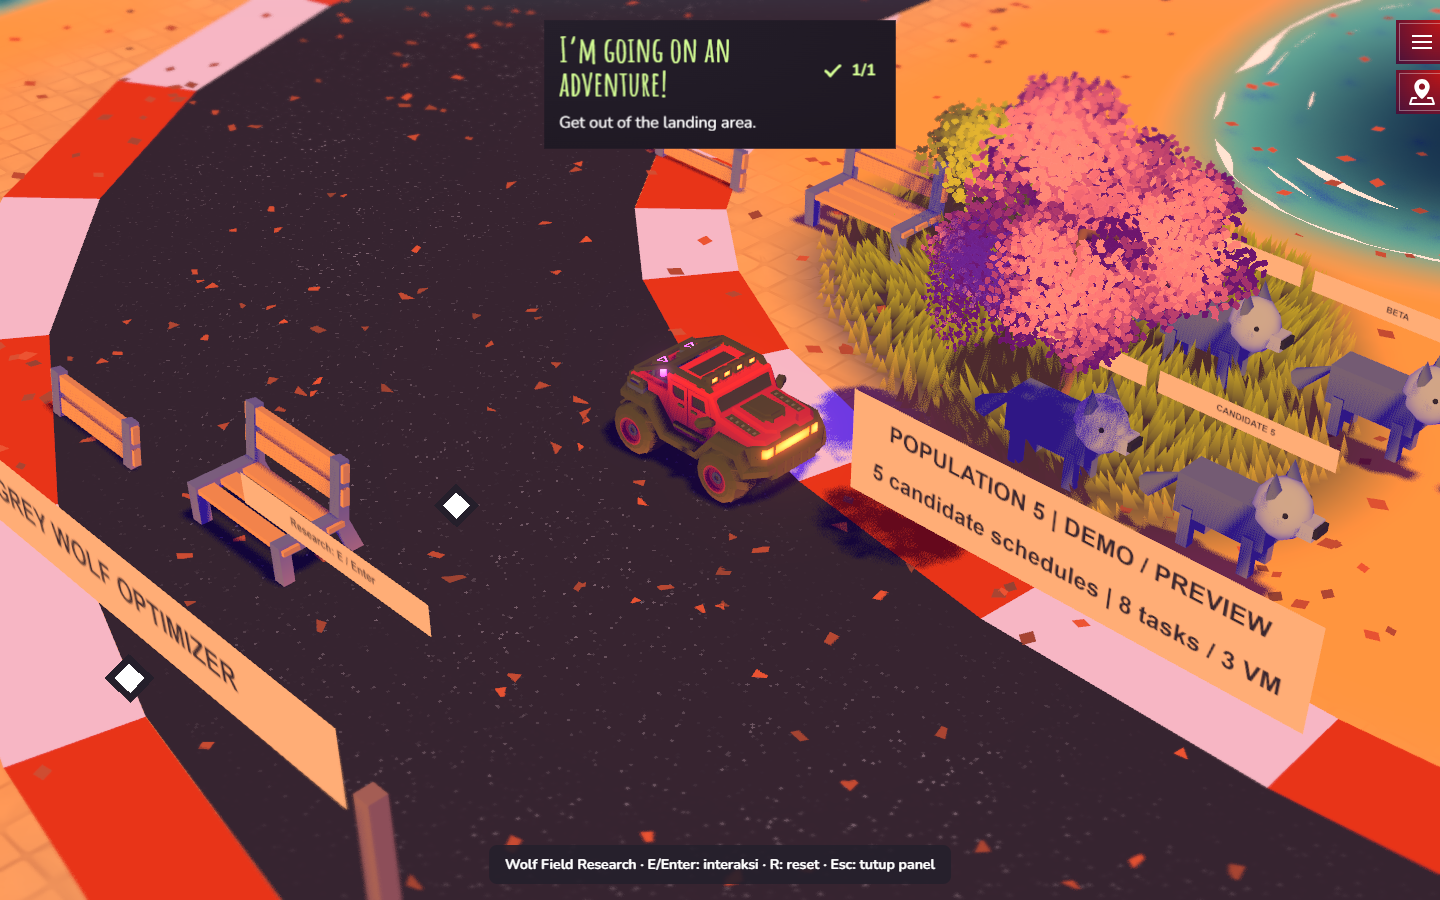
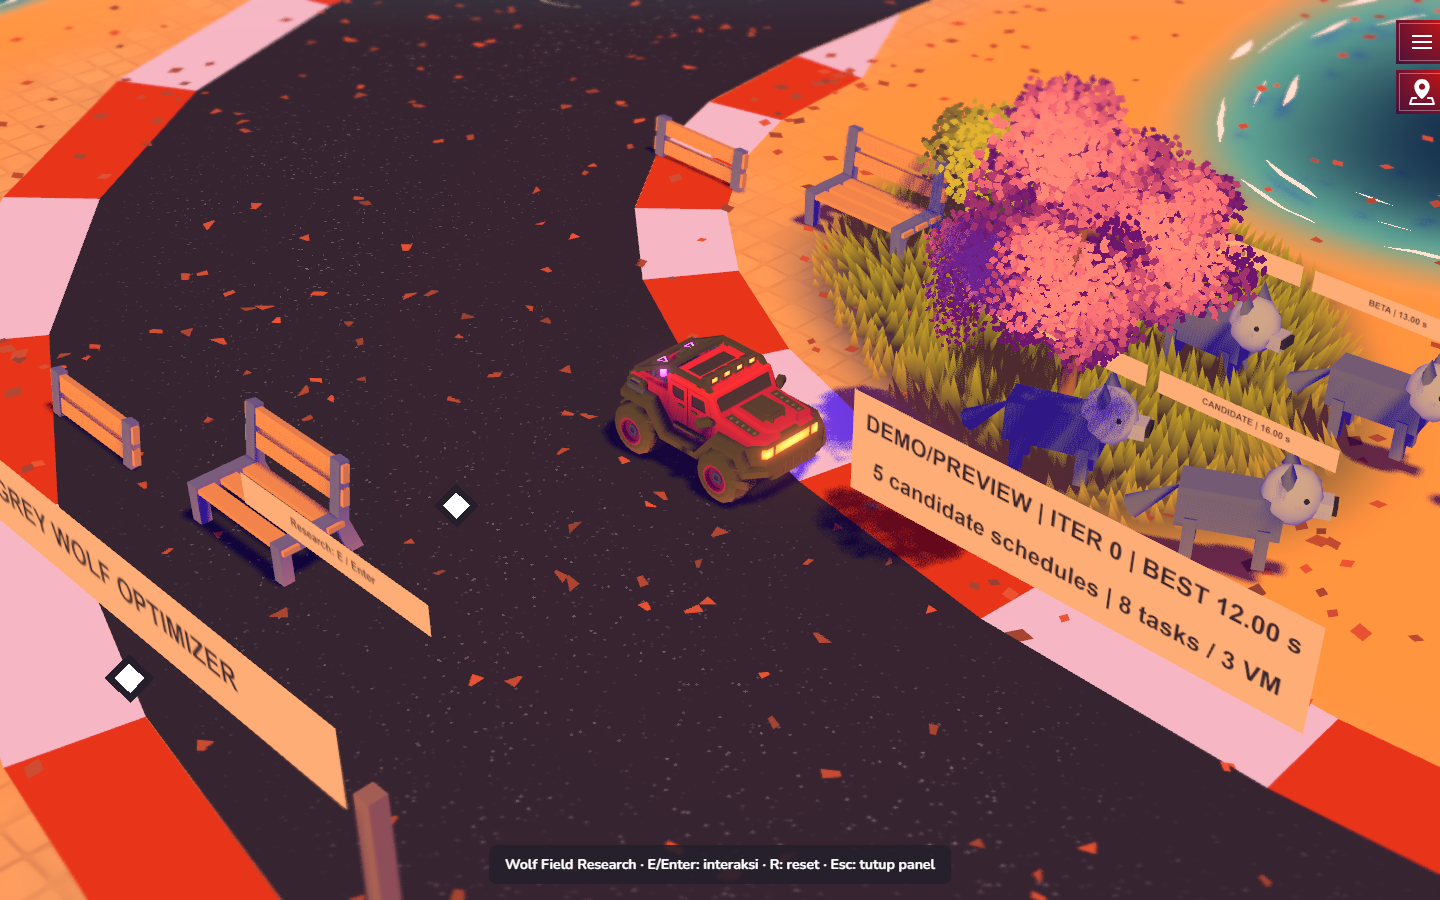
feat(gwo): add validated event adapter and research inspector

diff --git a/sources/CloudOps/gwo/GwoWorld.js b/sources/CloudOps/gwo/GwoWorld.js
@@ -1,3 +1,4 @@
+import {validateState,previewState} from './state.js'
 import * as T from 'three/webgpu'
 import {color,texture} from 'three/tsl'
 import {Area} from '../../Game/World/Areas/Area.js'
@@ -26,12 +27,19 @@ export class GwoWorld extends Area {
   const gate=manager.findReturnCheckpoint({position:[39,50],rotation:0});if(!gate)throw new Error('No safe GWO gate');this.mainGate=gate;manager.createStation({zone:'main',label:'Wolf Field Research',position:[gate.position[0],1.5,gate.position[1]],onInteract:()=>manager.enter('gwo')})
   manager.createStation({zone:'gwo',label:'Kembali ke Main',position:[-65,1.5,75],onInteract:()=>manager.enter('main')})
   manager.createStation({zone:'gwo',label:'GWO Research',position:[-65,1.5,70],onInteract:()=>manager.openPanel('gwo-research')})
-  manager.registerPanel('gwo-research');manager.presentation.sections.push('gwo');manager.refresh()
+  this.resetVisualization();manager.registerPanel('gwo-research');manager.presentation.sections.push('gwo');manager.refresh()
  }
  mesh(geo,mat,parent,x,y,z,sx=1,sy=1,sz=1){const m=new T.Mesh(geo,this.materials[mat]);m.position.set(x,y,z);m.scale.set(sx,sy,sz);m.castShadow=true;m.receiveShadow=true;parent.add(m);return m}
  makeWolf(){const g=new T.Group();this.mesh(new T.BoxGeometry(1.45,.65,.55),'fur',g,0,.85,0);this.mesh(new T.IcosahedronGeometry(.43,1),'light',g,.77,1.18,0,1,1.1,.85);this.mesh(new T.BoxGeometry(.5,.25,.3),'light',g,1.08,1.08,0);this.mesh(new T.BoxGeometry(.09,.14,.29),'dark',g,1.35,1.1,0);for(const z of [-.23,.23]){this.mesh(new T.ConeGeometry(.16,.38,3),'fur',g,.7,1.65,z);this.mesh(new T.BoxGeometry(.18,.65,.16),'fur',g,-.5,.36,z);this.mesh(new T.BoxGeometry(.18,.65,.16),'fur',g,.5,.36,z);this.mesh(new T.SphereGeometry(.045,6,4),'dark',g,.97,1.3,z*1.3)}const tail=this.mesh(new T.ConeGeometry(.18,.9,6),'fur',g,-1,.8,0);tail.rotation.z=-.9;return g}
  block(x,y,z,w,h,d,mat,solid=false){const g=new T.Group();this.mesh(new T.BoxGeometry(w,h,d),mat,g,0,0,0);g.position.set(x,y,z);this.game.objects.add({model:g,updateMaterials:false},solid?{type:'fixed',position:{x,y,z},colliders:[{shape:'cuboid',parameters:[w/2,h/2,d/2],category:'object'}]}:null);this.objects.hideable.push(g);return g}
  sign(text,x,y,z,width){const c=document.createElement('canvas');c.width=1536;c.height=192;const ctx=c.getContext('2d');const tex=new T.CanvasTexture(c);tex.colorSpace=T.SRGBColorSpace;const mat=new MeshDefaultMaterial({colorNode:texture(tex)});const m=new T.Mesh(new T.PlaneGeometry(width,width/8),mat);m.position.set(x,y,z);this.game.scene.add(m);this.objects.hideable.push(m);const write=value=>{ctx.fillStyle='#ffcf8b';ctx.fillRect(0,0,c.width,c.height);ctx.fillStyle='#383039';ctx.font='bold 76px sans-serif';ctx.textAlign='center';ctx.textBaseline='middle';ctx.fillText(value,768,96,1490);tex.needsUpdate=true};write(text);return {mesh:m,write}}
- update(){if(!this.wolves)return;this.time+=this.game.ticker.delta;for(const w of this.wolves)w.mesh.position.y=w.base.y+Math.sin(this.time*2+w.base.x)*.025}
+ applyState(input,{preview=false}={}){
+  const state=validateState(input);this.state=state;this.preview=preview
+  const ranked=[...state.candidates].sort((a,b)=>a.fitness-b.fitness)
+  state.candidates.forEach((candidate,i)=>{const wolf=this.wolves[i];wolf.id=candidate.id;const leader=Object.entries(state.leaders).find(([,id])=>id===candidate.id)?.[0];wolf.label.write(`${leader?.toUpperCase()||'CANDIDATE'} | ${candidate.fitness.toFixed(2)} s`);wolf.targetRotation=ranked.findIndex(c=>c.id===candidate.id)*.12;wolf.assignment=[...candidate.assignment]})
+  this.board.write(`${preview?'DEMO/PREVIEW':'ENGINE EVENT'} | ITER ${state.iteration} | BEST ${state.bestMakespan.toFixed(2)} s`)
+  const detail=document.getElementById('gwo-state');if(detail)detail.textContent=`${preview?'DEMO / PREVIEW — synthetic values':'External engine event'}; iteration ${state.iteration}; best makespan ${state.bestMakespan} s. `+state.candidates.map(c=>`${c.id}: [${c.assignment.join(',')}] fitness ${c.fitness}`).join('; ')
+ }
+ resetVisualization(){this.applyState(previewState,{preview:true});for(const w of this.wolves){w.mesh.position.copy(w.base);w.mesh.rotation.y=0}this.time=0}
+ update(){if(!this.wolves)return;this.time+=this.game.ticker.delta;for(const w of this.wolves){w.mesh.rotation.y+=(w.targetRotation-w.mesh.rotation.y)*Math.min(1,this.game.ticker.delta*4);w.mesh.position.y=w.base.y+Math.sin(this.time*2+w.base.x)*.025}}
 }
-

diff --git a/sources/index.html b/sources/index.html
@@ -731,7 +731,7 @@
 
         <!-- Modals -->
         <div class="js-modals modals">
-<div class="js-modal modal" data-name="gwo-research" role="dialog" aria-modal="true" aria-label="GWO Research"><div class="modal__content"><button class="js-close">Back to car / Esc</button><h2>Wolf Field Research — DEMO / PREVIEW</h2><p>Each wolf represents one candidate assignment of 8 tasks to 3 VMs. Alpha, Beta and Delta indicate ranking, not distance to a server.</p><p>Iteration: waiting for external engine. Makespan: not evaluated. No GWO algorithm runs in this preview.</p></div></div>
+<div class="js-modal modal" data-name="gwo-research" role="dialog" aria-modal="true" aria-label="GWO Research"><div class="container" style="max-width:760px"><div class="content"><button class="js-close js-main-focus close" aria-label="Back to car"><img class="icon is-default" src="ui/close.svg" alt=""></button><h2>Wolf Field Research — DEMO / PREVIEW</h2><p>Each wolf represents one candidate assignment of 8 tasks to 3 VMs. Alpha, Beta and Delta indicate ranking, not distance to a server.</p><p><span id="gwo-state">Waiting for external engine.</span> No GWO algorithm runs in this preview.</p></div></div></div>
 
             <div class="js-modal modal" data-name="cloud-ops-test" role="dialog" aria-modal="true" aria-labelledby="cloud-ops-test-title">
                 <div class="container">
@@ -897,4 +897,6 @@
     <script type="module" src="./index.js"></script>
 </body>
 </html>
+
+
 

diff --git a/sources/CloudOps/gwo/state.js b/sources/CloudOps/gwo/state.js
@@ -1,0 +1,11 @@
+// Renderer-independent validation. A wolf is a complete eight-task schedule.
+export function validateState(state) {
+ const assignment=a=>Array.isArray(a)&&a.length===8&&a.every(v=>Number.isInteger(v)&&v>=0&&v<3)
+ if(!state||!Number.isInteger(state.iteration)||state.iteration<0||!Array.isArray(state.candidates)||state.candidates.length!==5)throw new TypeError('Expected iteration and five candidates')
+ const ids=new Set()
+ for(const c of state.candidates){if(typeof c.id!=='string'||!c.id||ids.has(c.id)||!assignment(c.assignment)||!Number.isFinite(c.fitness)||c.fitness<0)throw new TypeError('Invalid candidate');ids.add(c.id)}
+ const leaders=['alpha','beta','delta'].map(k=>state.leaders?.[k])
+ if(new Set(leaders).size!==3||leaders.some(id=>!ids.has(id))||!assignment(state.bestAssignment)||!Number.isFinite(state.bestMakespan)||state.bestMakespan<0)throw new TypeError('Invalid leaders or best solution')
+ return structuredClone(state)
+}
+export const previewState={iteration:0,candidates:Array.from({length:5},(_,i)=>({id:`wolf-${i+1}`,assignment:Array.from({length:8},(_,j)=>(i+j)%3),fitness:12+i})),leaders:{alpha:'wolf-1',beta:'wolf-2',delta:'wolf-3'},bestAssignment:[0,1,2,0,1,2,0,1],bestMakespan:12}

diff --git a/docs/GWO_WORLD_INTEGRATION.md b/docs/GWO_WORLD_INTEGRATION.md
@@ -1,0 +1,25 @@
+# GWO World — Phase 1
+
+Base: development/m2-shared-game-extension. Working branch: feature/gwo-world. PR target: development/m2-shared-game-extension. P0 checkpoint: 35bae38c8e1e2770a38779642c375c370b759a0d (pushed and verified remotely).
+
+## Run
+
+`npm install --force`, `npm run dev`. Complete original intro. Main gate “Wolf Field Research” is near the landing area; its position is selected by M2 findReturnCheckpoint around [39,50]. Stop, press E/Enter. In GWO: original drive controls; R uses M2 reset; Research at [-65,70], exit at [-65,75]. Esc closes the native M2 modal.
+
+## Integration
+
+GwoWorld extends original Area with bounding/frustum markers. It mounts after ZoneManager in World.step(2). Only shared edits are that import/initialization and the static `gwo-research` modal HTML (discovered by Bruno before game init). No new keyboard listeners, physics, rendering, camera or vehicle controller. No ACO/Cloud code changed.
+
+Terrain, grass, trees, rocks, track/path, lighting and palette family come from the original sector around [-65,65]. This shares the M2 demonstration sector intentionally for Phase 1; the M2 benches and test registrations remain untouched. The circuit segment is the driveable route. Spawn [-65,65] is checked with M2 safeSpawn after placement; every wolf/entrance location is ray-tested for dry level ground. New wolf/sign geometry is procedural editable source in GwoWorld.js; no Blender or external assets were used. Benches reuse original geometry/material. License and attribution retained.
+
+## Visual API
+
+`game.world.areas.gwo.applyState(state, {preview:false})` accepts iteration, exactly five candidates `{id, assignment:[eight integers 0..2], fitness}`, distinct leader IDs `{alpha,beta,delta}`, bestAssignment, bestMakespan. Validation is renderer-independent in state.js and input is cloned. Caller supplies actual computed state; no optimization/evaluation is performed here.
+
+Labels, fitness, board iteration/best value, and smooth orientation reflect events. Wolf orientation indicates ranking only; positions do not imply distance to VM. Each wolf is one full schedule. Assignments appear in the research panel. Repeated events reuse the same five actors and label textures, adding no listeners/meshes. `resetVisualization()` restores deterministic DEMO/PREVIEW values and orientation. Demo fitness values are synthetic, explicitly labeled, and not claims of computed makespan.
+
+## Tests and evidence
+
+`npm test` (four tests), `npm run build`, `node scripts/test-gwo.mjs` with dev server port 1245 and VITE_GAME_PUBLIC=1. Browser test uses original #skip and test setup physics placement to reach gates, then actual keyboard E/Enter/Esc/R and a driving segment. This is targeted smoke coverage, not manual traversal of every route.
+
+Runtime screenshots: docs/evidence/gwo/overview.png, pack.png, research.png. Browser JSON records pass/errors. Existing font-path/bundle warnings remain. Mobile/WebGL/gamepad and sustained performance not verified. Full optimizer, dashboard, scene disposal/streaming and final exclusive map parcel are outside Phase 1. The area uses original scenery rather than replacing terrain or modifying original assets.
